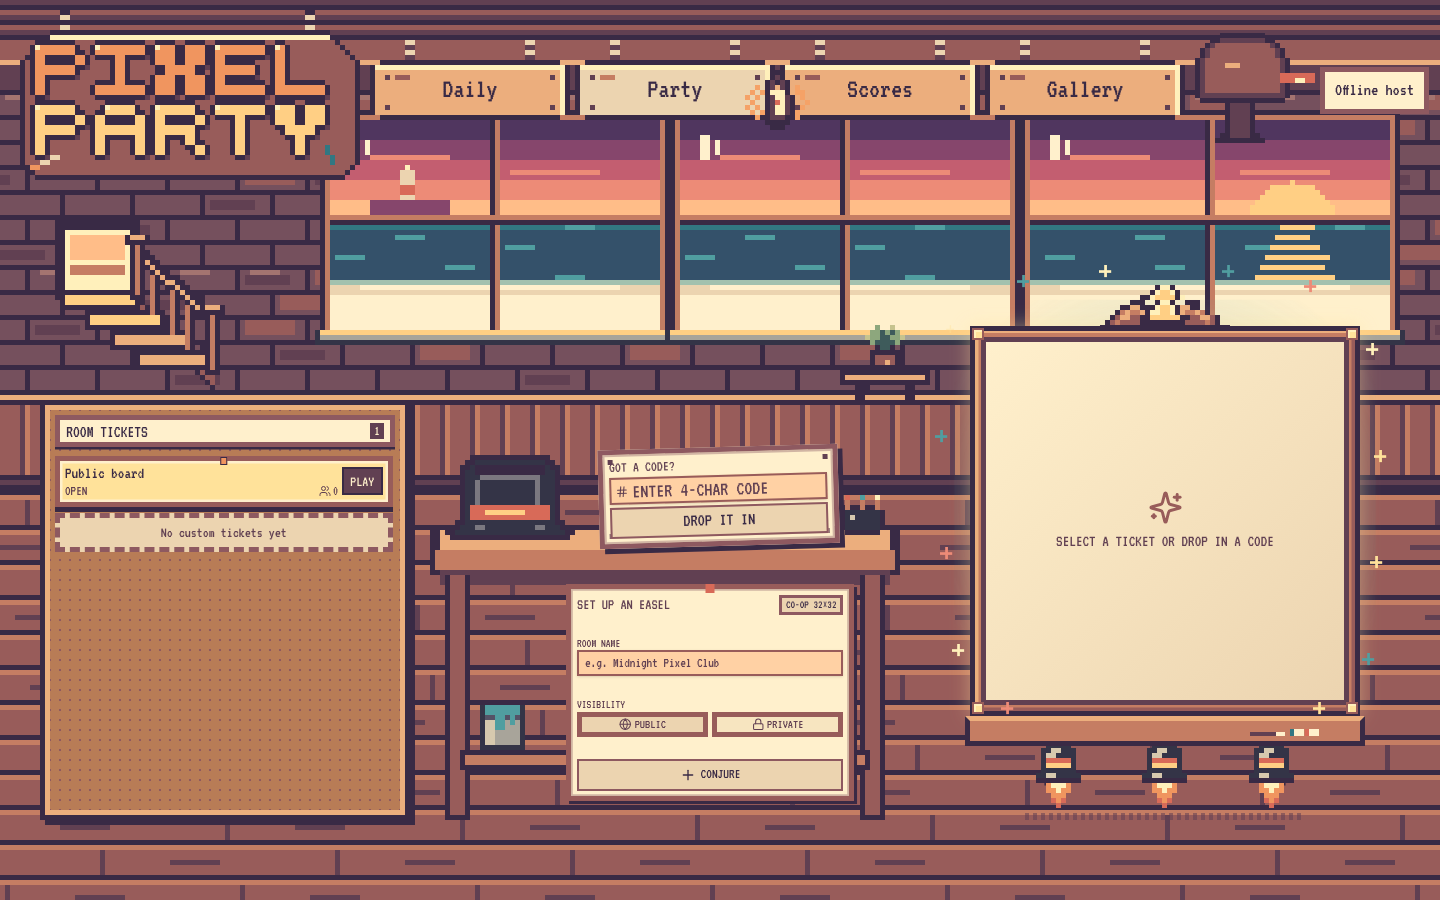
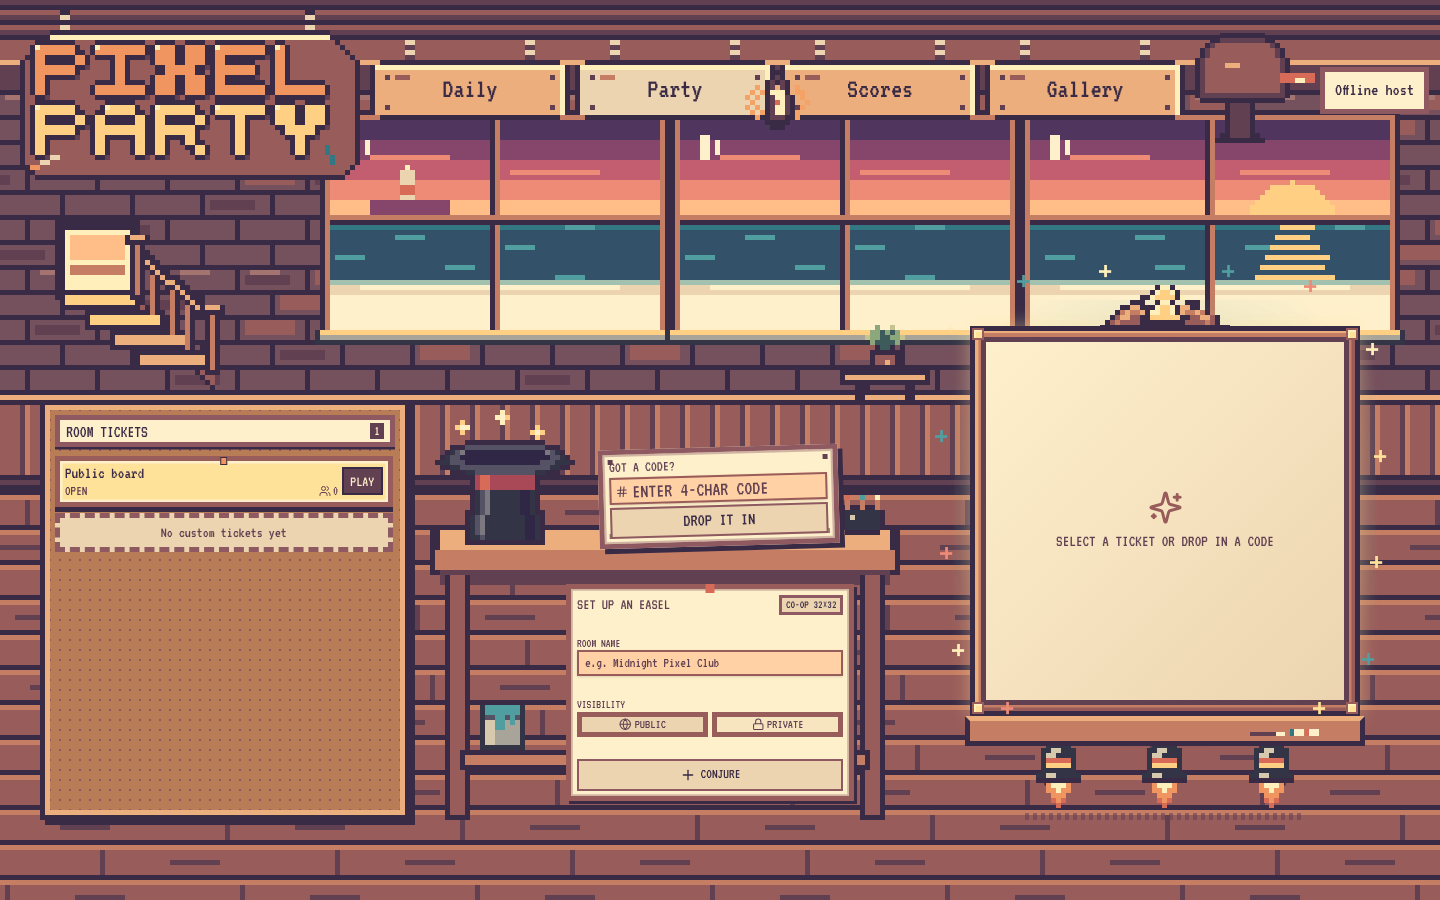
fix(studio): top hat silhouette

Changed region(s): [[0.2812, 0.4667, 0.4062, 0.6222]]

diff --git a/src/components/studio/studio.css b/src/components/studio/studio.css
@@ -306,16 +306,16 @@ html:has(.studio-world) .porch-nav__username {
 
 .studio-hat-stage {
   position: absolute;
-  left: calc(var(--px) * 3);
+  left: calc(var(--px) * 1);
   top: calc(var(--px) * 1);
-  width: calc(var(--px) * 26);
+  width: calc(var(--px) * 28);
   height: calc(var(--px) * 24);
   pointer-events: none;
 }
 
 .studio-hat-ticket {
   position: absolute;
-  left: calc(var(--px) * 9.5);
+  left: calc(var(--px) * 10.5);
   top: 0;
   width: calc(var(--px) * 7);
   height: calc(var(--px) * 4);
@@ -339,9 +339,9 @@ html:has(.studio-world) .porch-nav__username {
   animation: studio-spark-burst 650ms steps(4) infinite;
 }
 
-.studio-hat-spark--1 { left: calc(var(--px) * 5); top: calc(var(--px) * 10); }
-.studio-hat-spark--2 { left: calc(var(--px) * 12); top: calc(var(--px) * 7); animation-delay: 110ms; }
-.studio-hat-spark--3 { left: calc(var(--px) * 18); top: calc(var(--px) * 11); animation-delay: 220ms; }
+.studio-hat-spark--1 { left: calc(var(--px) * 6); top: calc(var(--px) * 15); }
+.studio-hat-spark--2 { left: calc(var(--px) * 13); top: calc(var(--px) * 12); animation-delay: 110ms; }
+.studio-hat-spark--3 { left: calc(var(--px) * 20); top: calc(var(--px) * 16); animation-delay: 220ms; }
 
 .studio-hat-smoke {
   position: absolute;
@@ -357,15 +357,15 @@ html:has(.studio-world) .porch-nav__username {
 }
 
 .studio-smoke-puff--1 {
-  left: calc(var(--px) * 6);
-  bottom: calc(var(--px) * 2);
+  left: calc(var(--px) * 7);
+  bottom: calc(var(--px) * 5);
   width: calc(var(--px) * 6);
   height: calc(var(--px) * 5);
 }
 
 .studio-smoke-puff--2 {
-  left: calc(var(--px) * 12);
-  bottom: calc(var(--px) * 4);
+  left: calc(var(--px) * 14);
+  bottom: calc(var(--px) * 7);
   width: calc(var(--px) * 5);
   height: calc(var(--px) * 4);
   animation-delay: 120ms;
@@ -373,8 +373,8 @@ html:has(.studio-world) .porch-nav__username {
 
 @keyframes studio-ticket-drop {
   0% { transform: translateY(0) scale(1); opacity: 1; }
-  82% { transform: translateY(calc(var(--px) * 19)) scale(0.82); opacity: 1; }
-  100% { transform: translateY(calc(var(--px) * 22)) scale(0.45); opacity: 0; }
+  82% { transform: translateY(calc(var(--px) * 17)) scale(0.82); opacity: 1; }
+  100% { transform: translateY(calc(var(--px) * 20)) scale(0.45); opacity: 0; }
 }
 
 @keyframes studio-spark-burst {

diff --git a/src/scene/studio/sprites.ts b/src/scene/studio/sprites.ts
@@ -35,6 +35,8 @@ const colours = {
   '4': P.fur[4],
   '5': P.flame[0],
   '6': P.flame[2],
+  '7': P.sky[0],
+  '8': P.stone[1],
 }
 
 export const studioSprites = {
@@ -77,23 +79,33 @@ export const studioSprites = {
     '.dddddddd.',
   ], colours),
   topHat: defineSprite([
-    '.....dddddddddddddddd.....',
-    '....ddmmmmmmmmmmmmmmdd....',
-    '...ddmddddddddddddddmdd...',
-    '...dmmddddddddddddddmmd...',
-    '...dmmmnnnnnnnnnnnnmmmd...',
-    '...dmmnmmmmmmmmmmmnmmmd...',
-    '...dmmnmmmmmmmmmmmnmmmd...',
-    '...dmmnmmmmmmmmmmmnmmmd...',
-    '...dmmnmmmmmmmmmmmnmmmd...',
-    '...dmmnmmmmmmmmmmmnmmmd...',
-    '...dmccccccccccccccccmd...',
-    '...dmccczzzzzzzzcccccmd...',
-    '...dmccccccccccccccccmd...',
-    '..ddmmmmmmmmmmmmmmmmmmdd..',
-    '.ddmmmnnmmmmmmmmmmnnmmmdd.',
-    'ddmmmmmmmmmmmmmmmmmmmmmmdd',
-    '.dddddddddddddddddddddddd.',
+    '.............y..............',
+    '............ypz.............',
+    '.....z.......y..............',
+    '....zpy.............z.......',
+    '.....z.............zpz......',
+    '....................z.......',
+    '......dddddddddddddddd......',
+    '...ddd8888888888888888ddd...',
+    '..dm8n7777777777777777n8md..',
+    '.dm8877777777777777777788md.',
+    'dmm888777777777777777888mmmd',
+    '.ddmm888888888888888888mmdd.',
+    '...dddmm888888888888mmddd...',
+    '.......d5cc555555555d.......',
+    '.......d5cc555555555d.......',
+    '.......d5cc555555555d.......',
+    '.......dm8nmmmmmm77md.......',
+    '.......dm8nmmmmmm77md.......',
+    '.......dm8nmmmmmm77md.......',
+    '.......dm8nmmmmmm77md.......',
+    '......ddm8nmmmmmm77mdd......',
+    '......dm8nmmmmmmmm77md......',
+    '......dm8nmmmmmmmm77md......',
+    '......dm8nmmmmmmmm77md......',
+    '......dm8nmmmmmmmm77md......',
+    '......dmm8mmmmmmmm77md......',
+    '......dddddddddddddddd......',
   ], colours),
   easelCrest: defineSprite([
     '...........dyyd...........',

diff --git a/src/scene/studio/drawStudio.ts b/src/scene/studio/drawStudio.ts
@@ -266,6 +266,6 @@ export function drawStudio(ctx: CanvasRenderingContext2D, frame: number): void {
 
     // Right-side brush jar & prominent Magician's Top Hat standing cleanly on left tabletop
     drawSprite(ctx, studioSprites.brushJar, bench.x + bench.w - 13, topY - 10)
-    drawSprite(ctx, studioSprites.topHat, bench.x + 3, topY - 18)
+    drawSprite(ctx, studioSprites.topHat, bench.x + 1, topY - 27)
   }
 }
